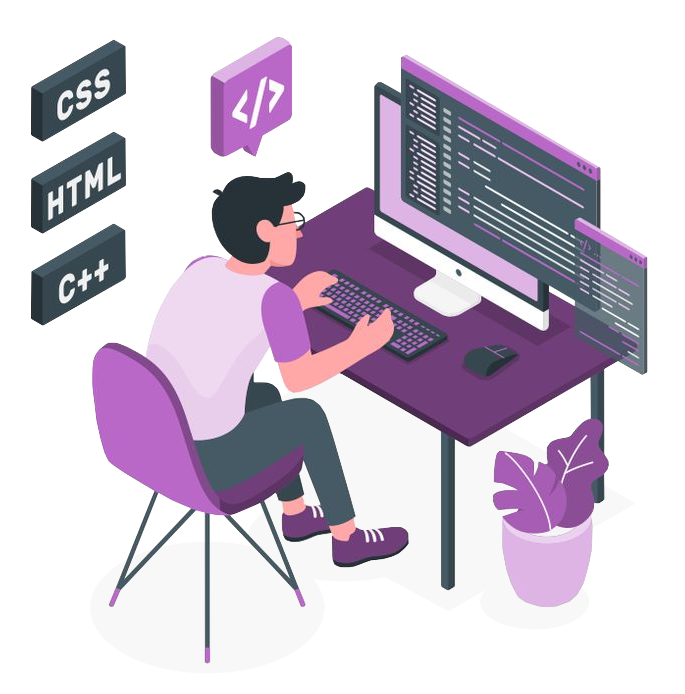
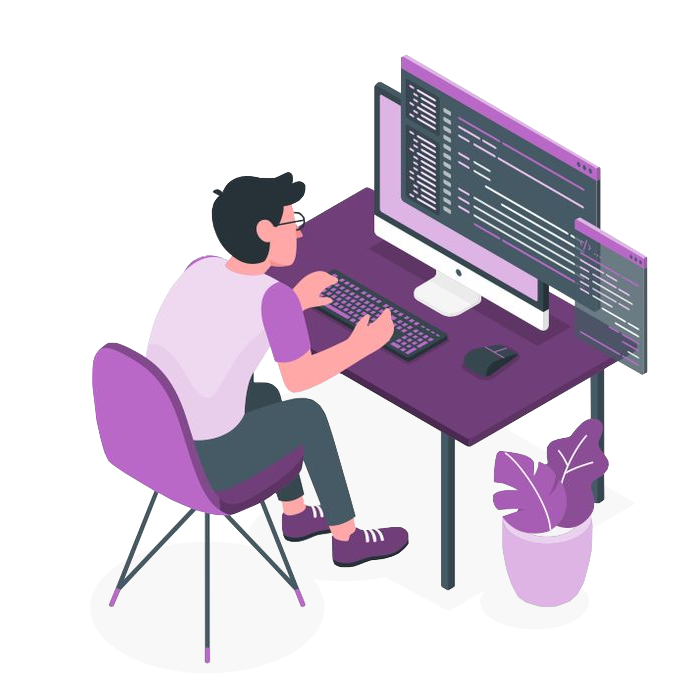
Update

Changed region(s): [[0.0307, 0.0605, 0.1839, 0.4841], [0.3066, 0.0303, 0.4292, 0.2421]]

diff --git a/style.css b/style.css
@@ -28,7 +28,26 @@ header{
     padding: 40px 4%;
 }
 
-/* Posição do botão contato */
+/* Estilo botão contato*/
+.contato button{
+    padding: 10px 40px;
+    font-size: 18px;
+    font-weight: 500;
+    background-color: rgb(217, 25, 255);
+    color: rgb(228, 228, 228);
+    border: 0;
+    border-radius: 20px;
+    cursor: pointer;
+}
+
+.contato button:hover{
+    color: rgb(255, 255, 255);
+    transform: scale(1.05);
+    transition: .2s;
+    box-shadow: 0px 0px 15px rgba(181, 20, 255, 0.808);
+}
+
+/* Posição de bot~es menu */
 header > .interface{
     display: flex;
     align-items: center;
@@ -36,7 +55,7 @@ header > .interface{
     gap: 120px;
 }
 
-/* Estilo do menu*/
+/* Estilo do menu */
 header .menu-desktop button{
     padding: 10px 25px;
     font-weight: 400;
@@ -62,30 +81,11 @@ header nav ul{
 /* Espaçamento do menu */
 header nav ul li{
     display: inline-block;
-    padding: 0 60px;
+    padding: 0px 60px;
 }
 
-/* Estilo botão contato */
-header .contato button{
-    padding: 10px 40px;
-    font-size: 18px;
-    font-weight: 500;
-    background-color: rgb(217, 25, 255);
-    color: rgb(228, 228, 228);
-    border: 0;
-    border-radius: 20px;
-    cursor: pointer;
-}
-
-header .contato button:hover{
-    color: rgb(255, 255, 255);
-    transform: scale(1.05);
-    transition: .2s;
-    box-shadow: 0px 0px 15px rgba(181, 20, 255, 0.808);
-}
 
 /* Topo do site*/
-
 section.topo-do-site{
     padding: 40px 4%;
 }
@@ -96,17 +96,54 @@ section.topo-do-site .flex{
     gap: 80px;
 }
 
+/* Titulo e paragrafo topo*/
 .topo-do-site h1{
     color: white;
     font-size: 35px;
+    
 }
 
-.topo-do-site h1 span{
+.topo-do-site .txt-topo-site h1 span{
     color: rgb(180, 20, 255);
-
+    
 }
 
-img{
-    width: 380px;
-    height: 380px;
+.topo-do-site .txt-topo-site p{
+    color: white;
+    font-size: 18px;
+    margin: 35px 8px;
+    
+}
+
+/* Config. de imagem topo*/
+.img-topo-site {
+    width: 430px;
+    height: 430px;
+    position: relative;
+}
+
+.background-image{
+    width: 100%;
+    height: 100%;
+    object-fit: cover;
+}
+
+.overlay-image{
+    position: absolute;
+    padding: 30px 0px;
+    margin: -45px 0px 0px ;
+    top: 20px;
+    left: 0px;
+    width: 100%;
+    height: 100%;
+    animation: flutuar 2.5s ease-in-out infinite alternate;
+}
+
+@keyframes flutuar {
+    0%{
+        top: 0;
+    }
+    100%{
+        top: 30px;
+    }
 }

diff --git a/index.html b/index.html
@@ -39,7 +39,7 @@
                 <div class="interface">
                     <div class="flex">
                         <div class="txt-topo-site">
-                            <h1>Olá, me chamo Max. Bem-vindo(a)!<span>.</span></h1>
+                            <h1>Olá, me chamo Max. Bem-vindo(a)<span>!</span></h1>
                             <p>Tenho 18 anos, sou estudante de Ciência da Computação. Este é meu projeto de portfólio web.</p>
 
                             <div class="contato">
@@ -49,7 +49,8 @@
                             </div>
                         </div>
                         <div class="img-topo-site">
-                            <img src="images/Ilustração.png" alt="">
+                            <img src="images/Ilustração.png" alt="" class="background-image">
+                            <img src="images/Ilustração2.png" alt="" class="overlay-image">
                         </div>
                     </div>
                 </div>
